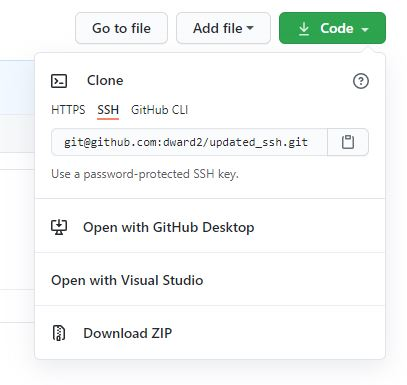
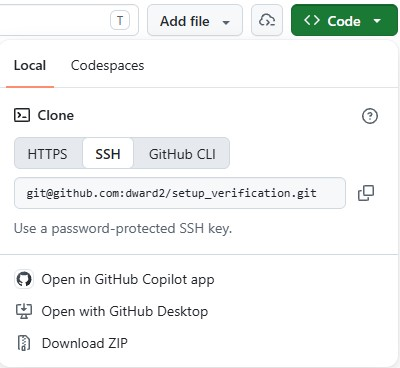
Updated cloning instructions with updated GitHub GUI

diff --git a/Lectures/intro_to_git.md b/Lectures/intro_to_git.md
@@ -430,42 +430,48 @@ sure that "Initialize this repository with a README" is selected.  Then, click
 create repository.  A new repository page will be shown.  
 
 ## Clone the GitHub Repository onto your local computer
-On the main page of your repository, you will then see a green button labeled 
-"Code".  Click on that.  A box should open with the title "Clone".  Make sure
-the SSH option is underlined.  
+On the main page of the repository you want to "clone" to your lcoal computer, 
+you will then see a green button labeled "Code".  Click on that.  A box should 
+open with the title "Clone".  Make sure the SSH option is selected.  
 ![Example](./lecture_files/code_clone_ssh.JPG)
 
 Copy the SSH URL that is shown that looks like 
 `git@github.com:user_name/repo_name.git`.
 
-On your local computer, open Git Bash.  Navigate to your `repos` directory, or 
+On your local computer, open a terminal window (on Mac) or Git Bash (on Windows).  
+Navigate to your `repos` directory, or 
 any other directory in which you want to create a subdirectory containing this 
 repository.  Then, use the following command:  `git clone <SSH_URL>`, 
 substituting `<SSH_URL>` with the SSH URL copied from GitHub.  This command 
 will now make a new subdirectory with the repository name from GitHub.
 
-As an example, let's say I have a GitHub repository called `updated_ssh`.  I 
+As an example, let's say I have a GitHub repository called `setup_verification`.  I 
 could clone repository to my computer as follows:
 ```
 dwonl@DESKTOP-G8L84L6 MINGW64 ~/repos
-$ git clone git@github.com:dward2/updated_ssh.git
-Cloning into 'gittest'...
+$ git clone git@github.com:dward2/setup_verification.git
+Cloning into 'setup_verification'...
 remote: Enumerating objects: 47, done.
 remote: Total 47 (delta 0), reused 0 (delta 0), pack-reused 47
 Unpacking objects: 100% (47/47), done.
 
 dwonl@DESKTOP-G8L84L6 MINGW64 ~/repos
 $ ls
-first/  updated_ssh/
+first/  setup_verification/
 ```  
-A new subdirectory is created called "updated_ssh".  If I wanted to use a different
+A new subdirectory is created called "setup_verification".  If I wanted to use a different
 name for the local folder, I could add an optional directory name after the URL.
-For example:  `git clone git@github.com:dward2/updated_ssh.git ssh_example`
+For example:  `git clone git@github.com:dward2/setup_verification.git initial_setup`
 
-You can now switch into this directory to use the repository.  You will see that
-the "README.md" file from GitHub can now be found in your local repository.
+You can now switch into this directory to use the repository.  You will see 
+whatever content exists from GitHub can now be found in your local repository.
+
+
 
 ## Push and Pull
+To practice using `git push` and `git pull`, first clone the repository you
+created in GitHub above.  Then, enter into the folder containing the repository
+you cloned.  
 
 Let's do two things:
 1.  Make an edit to the README.md file.
